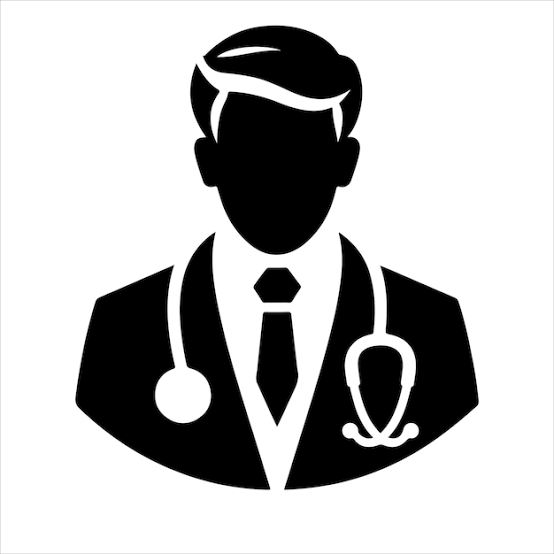
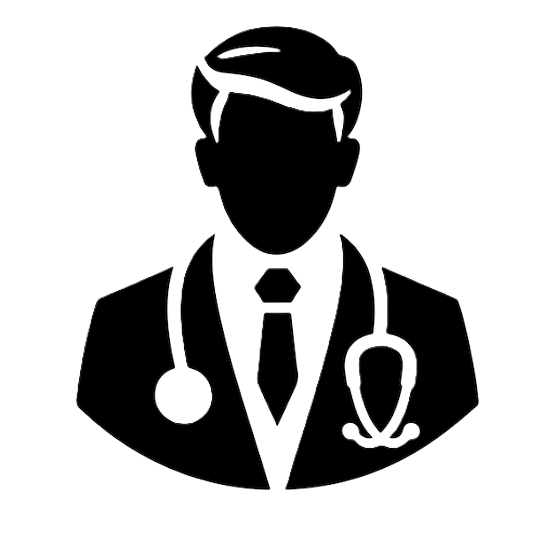
Nuevos cambios

diff --git a/index.html b/index.html
@@ -27,14 +27,15 @@
         <div class="grid-container">
 
             <div id="medico1">
-                <h2>Nombre del médico</h2>
+                <h2>Dr. Jorge Laguna</h2>
 
                 <p>
-                    Años de experiencia y especialidad médica.
+                    12 años de experiencia - Cardiología.
                     <br><br>
-                    Biografía breve que describa sobre su formación y enfoque de trabajo
+                    Médico especialista en cardiología, enfocado en la prevención,
+                    diagnóstico y tratamiento de enfermedades cardiovasculares.
                     <br><br>
-                    Horario de atención
+                    Horario de atención: Lunes y Miércoles, 8:00 AM - 12:00 PM
                 </p>
 
                 <img src="img/Medico.png" class="img-medico" alt="Médico">
@@ -45,17 +46,18 @@
             </div>
 
             <div id="medico2">
-                <h2>Nombre del médico</h2>
+                <h2>Dra. Ana Millan</h2>
 
                 <p>
-                    Años de experiencia y especialidad médica.
+                    8 años de experiencia - Pediatría.
                     <br><br>
-                    Biografía breve que describa sobre su formación y enfoque de trabajo
+                    Especialista en atención integral de niños y adolescentes,
+                    con enfoque en prevención y seguimiento del desarrollo infantil.
                     <br><br>
-                    Horario de atención
+                    Horario de atención: Martes y Jueves, 9:00 AM - 1:00 PM
                 </p>
 
-                <img src="img/Medico.png" class="img-medico" alt="Médico">
+                <img src="img/Medico.png" class="img-medico" alt="Médica">
 
                 <button>
                     Agendar Cita
@@ -63,14 +65,15 @@
             </div>
 
             <div id="medico3">
-                <h2>Nombre del médico</h2>
+                <h2>Dr. Samuel Cuervo</h2>
 
                 <p>
-                    Años de experiencia y especialidad médica.
+                    15 años de experiencia - Medicina Interna.
                     <br><br>
-                    Biografía breve que describa sobre su formación y enfoque de trabajo
+                    Médico especializado en el diagnóstico y tratamiento de
+                    enfermedades en adultos, con enfoque en atención integral.
                     <br><br>
-                    Horario de atención
+                    Horario de atención: Lunes, Miércoles y Viernes, 2:00 PM - 6:00 PM
                 </p>
 
                 <img src="img/Medico.png" class="img-medico" alt="Médico">
@@ -81,17 +84,18 @@
             </div>
 
             <div id="medico4">
-                <h2>Nombre del médico</h2>
+                <h2>Dra. María Torres</h2>
 
                 <p>
-                    Años de experiencia y especialidad médica.
+                    10 años de experiencia - Dermatología.
                     <br><br>
-                    Biografía breve que describa sobre su formación y enfoque de trabajo
+                    Especialista en el cuidado de la piel y tratamiento de
+                    enfermedades dermatológicas, tanto clínicas como estéticas.
                     <br><br>
-                    Horario de atención
+                    Horario de atención: Martes y Viernes, 8:00 AM - 12:00 PM
                 </p>
 
-                <img src="img/Medico.png" class="img-medico" alt="Médico">
+                <img src="img/Medico.png" class="img-medico" alt="Médica">
 
                 <button>
                     Agendar Cita
@@ -99,14 +103,15 @@
             </div>
 
             <div id="medico5">
-                <h2>Nombre del médico</h2>
+                <h2>Dr. Jorman Hurtado</h2>
 
                 <p>
-                    Años de experiencia y especialidad médica.
+                    7 años de experiencia - Ortopedia.
                     <br><br>
-                    Biografía breve que describa sobre su formación y enfoque de trabajo
+                    Especialista en diagnóstico y tratamiento de lesiones y
+                    enfermedades relacionadas con huesos, músculos y articulaciones.
                     <br><br>
-                    Horario de atención
+                    Horario de atención: Lunes y Jueves, 1:00 PM - 5:00 PM
                 </p>
 
                 <img src="img/Medico.png" class="img-medico" alt="Médico">
@@ -117,17 +122,18 @@
             </div>
 
             <div id="medico6">
-                <h2>Nombre del médico</h2>
+                <h2>Dra. Natalia Herrera</h2>
 
                 <p>
-                    Años de experiencia y especialidad médica.
+                    11 años de experiencia - Ginecología.
                     <br><br>
-                    Biografía breve que describa sobre su formación y enfoque de trabajo
+                    Especialista en salud femenina, prevención y atención integral
+                    durante las diferentes etapas de la vida.
                     <br><br>
-                    Horario de atención
+                    Horario de atención: Miércoles y Viernes, 8:00 AM - 12:00 PM
                 </p>
 
-                <img src="img/Medico.png" class="img-medico" alt="Médico">
+                <img src="img/Medico.png" class="img-medico" alt="Médica">
 
                 <button>
                     Agendar Cita
